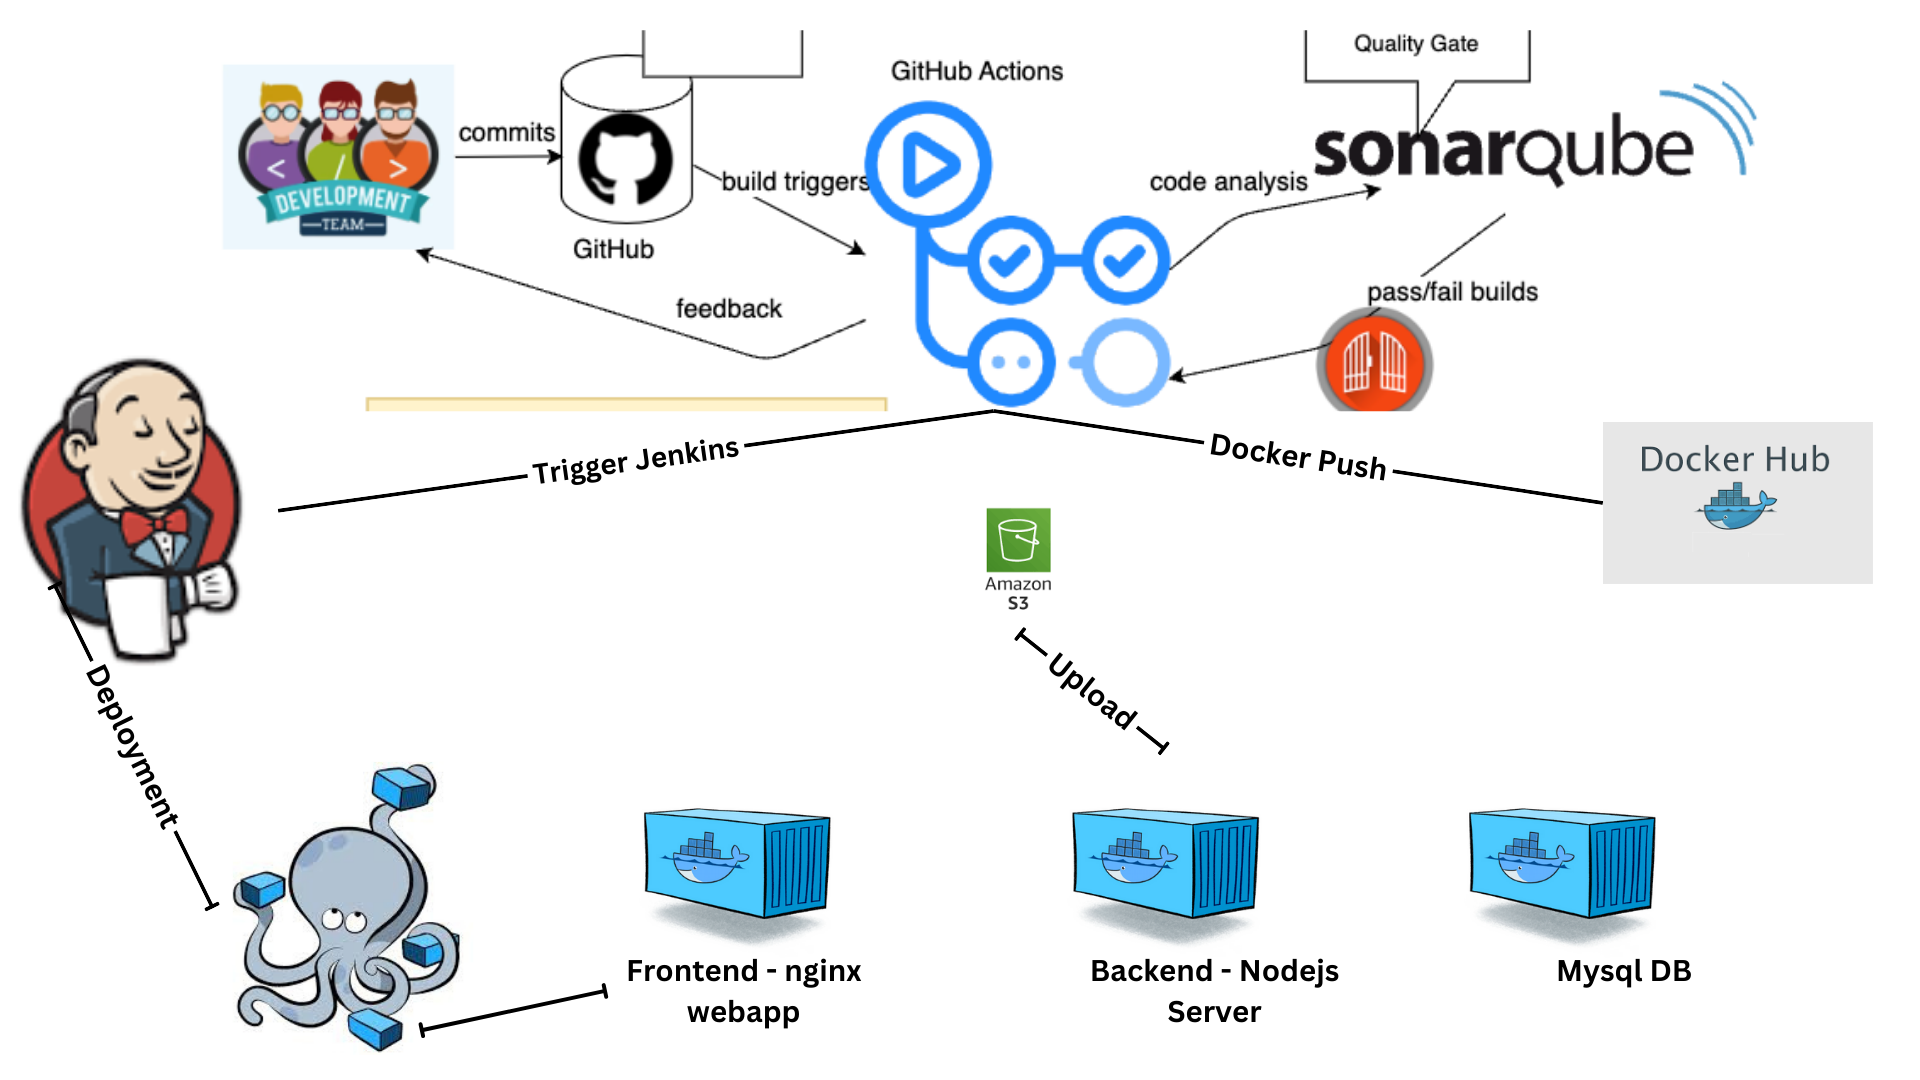
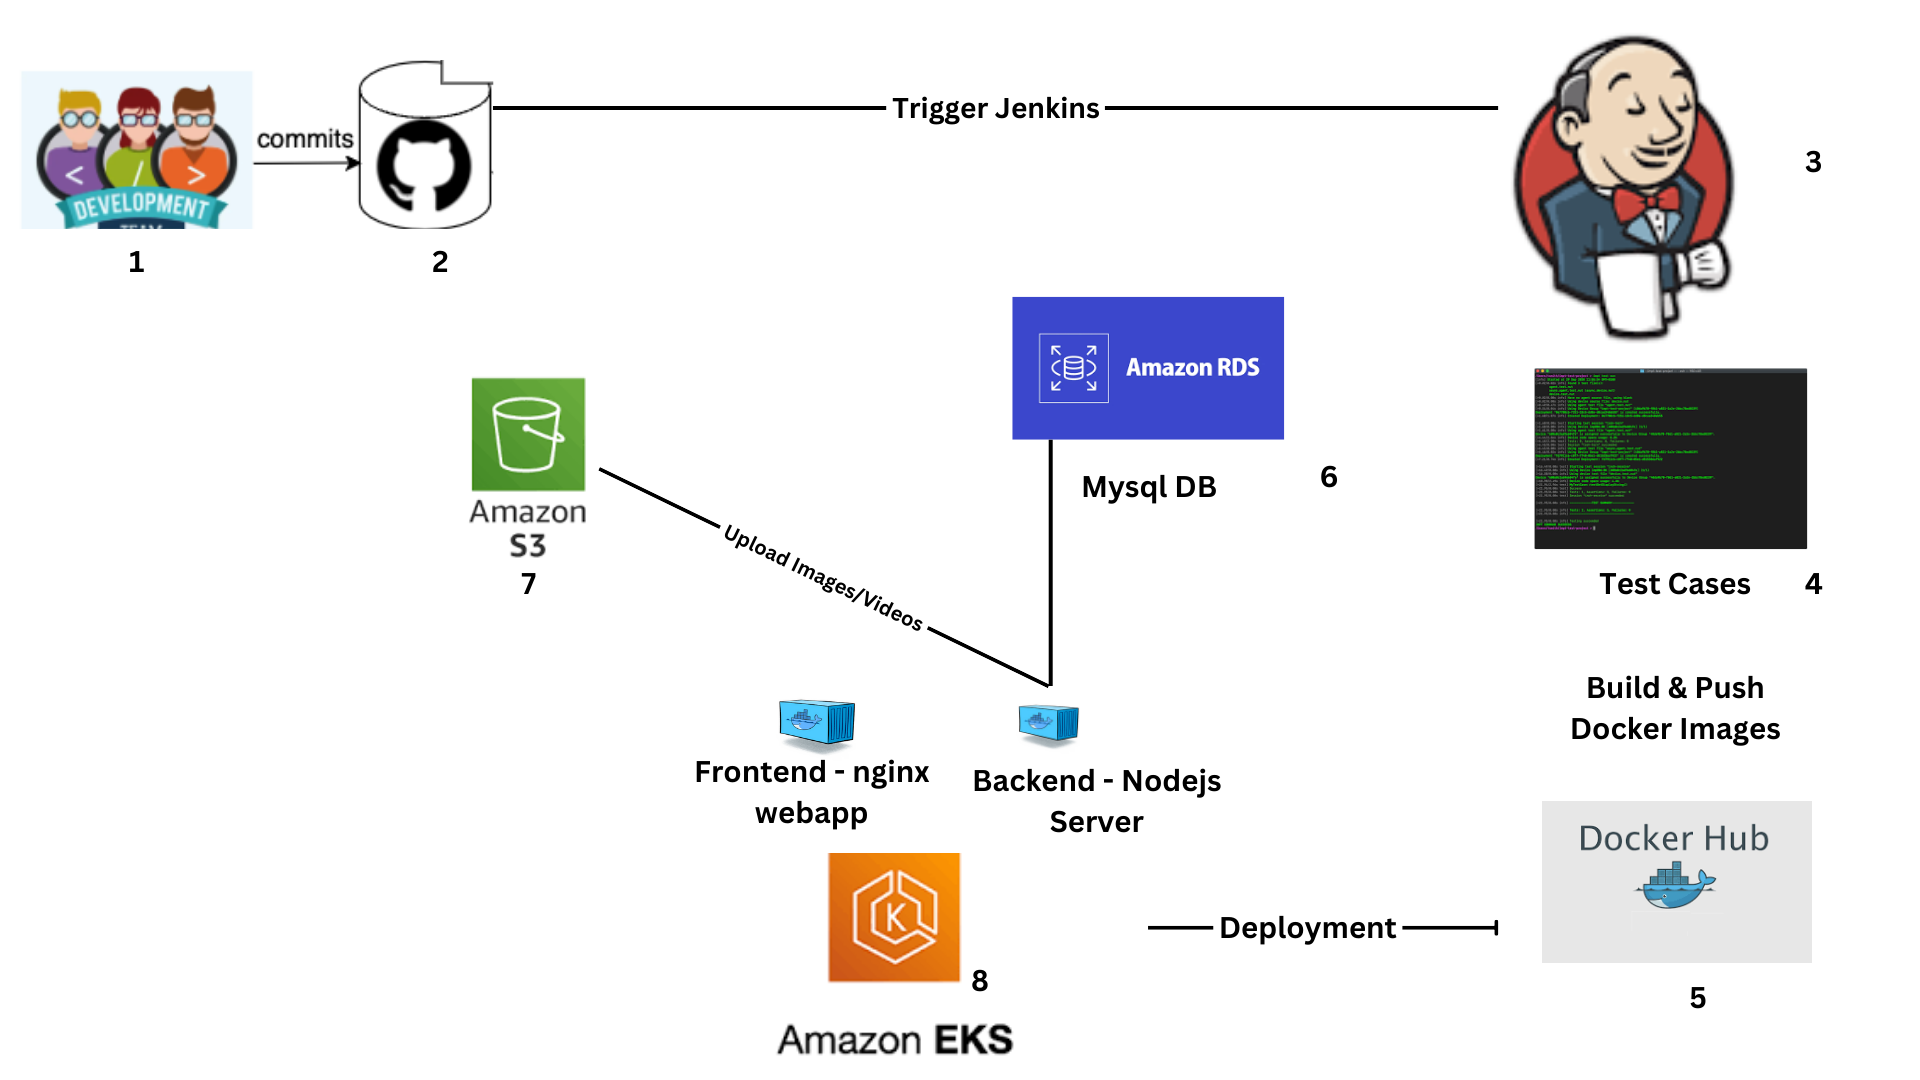
Final Commit

diff --git a/README.md b/README.md
@@ -24,21 +24,19 @@ The project follows a multi-container Docker architecture consisting of three ma
 
 1. **Frontend**: A static website served by Nginx, which hosts the HTML, CSS, and Frontend JavaScript files.
 2. **Backend**: A Node.js application that handles API requests, processes data, and interacts with the MySQL database.
-3. **Database**: A MySQL:8 database for storing movie details.
+3. **Database**: A RDS database for storing movie details.
 
 ## Features
 
-- **Multi-Container Deployment**: The application is containerized using Docker, with separate containers for the frontend, backend, and database.
+- **Multi-Container Deployment**: The application is containerized using Docker, with separate containers for the frontend, backend, We are using K8s as an container orchestration tool to manage the life cycle of containers.
 - **AWS S3 Integration**: Media files are stored securely in an AWS S3 bucket.
-- **Continuous Integration**: GitHub Actions are used to build and test the application, with SonarQube integrated for code quality analysis. (CI)
-- **Jenkins Deployment**: A Jenkins pipeline is used to deploy the application on an AWS EC2 instance. (CD)
+- **CI-CD Pipeline**: A Jenkins CI-CD pipeline is used to deploy the application on an AWS EKS
 
 ## How to Run the Application
 
 ### Prerequisites
 
 - **Docker**: Ensure Docker is installed on your system.
-- **Docker Compose**: Required to manage the multi-container setup.
 - **AWS CLI**: Configure your AWS credentials for S3 access.
 - **Jenkins**: Set up a Jenkins server for CI/CD.
 
@@ -60,7 +58,7 @@ The project follows a multi-container Docker architecture consisting of three ma
 
 - Launch Jenkins Server:
     ```bash
-    docker run -p 8080:8080 -p 50000:50000 -dit --name jenkins --restart=on-failure -v jenkins_home:/var/jenkins_home jenkins/jenkins:lts-jdk17
+    docker run -p 8080:8080 -p 50000:50000 -dit --name jenkins --restart=on-failure jenkins:lts-jdk17
     ```
 
 - Configure Jenkins Slave Node:
@@ -76,19 +74,6 @@ The project follows a multi-container Docker architecture consisting of three ma
         ```bash
         yum install git -y
         ```
-
-4. **SonarQube Configuration**
-    
-    - The SonarQube server will be hosted on an AWS EC2 instance(you can host it on same ec2 instance where jenkins server is running). Refer to the `docker-compose.yml` in the `/build` directory for setting up the SonarQube server.
-
-    ``` bash
-    sudo curl -L "https://github.com/docker/compose/releases/latest/download/docker-compose-$(uname -s)-$(uname -m)" -o /usr/local/bin/docker-compose
-    chmod +x /usr/local/bin/docker-compose
-    docker-compose --version
-    docker-compose up -d #please switch to `/build` folder, as the sonarqube docker-compose file is present there.
-    ```
-    
-    - Now SonarQube Server would be running on port no 9000, you can hit to <EC2 Public IP:9000>, by default the username and password of Sonarqube will be `admin`
 
 5. **AWS S3 Bucket**
 
@@ -115,122 +100,59 @@ The project follows a multi-container Docker architecture consisting of three ma
 
     CI/CD Pipeline: The CI/CD pipeline Checks code quality using SonarQube and then it builds Docker images with tags `jinny1/movie-streaming-backend-nodejs:latest` and `jinny1/movie-streaming-frontend:latest` and pushes them to DockerHub. Now it will deploy the application using these docker images
 
-    - GitHub Actions (for Continuous Integration)
-        The project includes a CI pipeline defined in `.github/workflows/sonarqube-scan.yml`, which performs the following steps:
+    - Jenkins (for Continuous Integration)
+        The project includes a CI-CD pipeline defined in `Jenkinsfile`, which performs the following steps:
 
-        - SonarQube Analysis: Checks code quality using SonarQube.
+        - Execute Test Cases
         - Docker Build & Push: Builds Docker images for the frontend and backend and pushes them to DockerHub.
-        - As workflow is using some Secrets, Hence create the secrets from `setting->Secrets and Variables-> Actions -> Repository secrets`
-
-            - **SONAR_TOKEN:** Token for SonarQube authentication.
-            - **SONAR_HOST_URL:** URL for the SonarQube server.
-            - **DOCKERHUB_USERNAME:** Docker Hub username.
-            - **DOCKERHUB_TOKEN:** Docker Hub token for authentication.
+        - As Pipeline is using some Secrets, Hence create the secrets from `Jenkins Credential Manager`
 
     - Jenkins (for Continuous Deployment)
 
-        - Define your pipeline in Jenkins, which will use the `./docker-compose.yml` file to start all the services(frontend, backend and database).
-
-        - **IMP** You need to change the IP of your EC2 Instance in the `./docker-compose.yml` file, Just replace the IP address defined in the environmental variable for `node-app` the keyword name is `DB_HOST`
-        and in `web` the keyword name os `API_URL`
-
-        - Manuall Deployment(optional)
-
-            - Create a .env file in your jenkins slave node from where you are going to execute the above `docker-compose.yml` file:
-
-                Create a .env file in the root directory to store your environment variables. This file should include your AWS S3 credentials, and other sensitive information.
-                
-                ```bash
-                touch .env
-                ```
-
-                Example .env file:
-                ```
-                AWS_ACCESS_KEY_ID=your-access-key
-                AWS_SECRET_ACCESS_KEY=your-secret-key
-                DB_HOST=your-server-ip-where-you-will-deploy-the-app
-                ```
-        - **Automation Deployment With Jenkins** 
-            - Create a Credential in Jenkins:
-                - Go to Jenkins and create a new credential.
-                - Select "Secret file" and upload your .env file from your system.
-                - Give an ID to this secret, which will be referenced in your Jenkinsfile.
-                
-            - Set Up the Jenkins Pipeline:
-
-                - Create a new pipeline job in Jenkins.
-                - Configure the Source Code Management (SCM) with your GitHub repository URL.
-                - Enable webhooks for seamless integration by going to GitHub and allowing a webhook with the path http://<Jenkins-IP>:8080/github-webhook/. This ensures Jenkins triggers automatically when changes are pushed to the repository.
-                
-            - Jenkinsfile Configuration `Jenkinsfile`:
-
-                - The pipeline configuration is defined in a Jenkinsfile. This script specifies the environment, stages, and steps for the deployment process.
-                - The environment variable ENV loads the credentials from the secret file you uploaded earlier.
-                - Deployment Steps:
-
-                    - Stage: Deploy the Multi-Container Application:
-                    - Copy the Environment File: The .env file is copied to the current directory using the command sh 'cp $ENV .env'.
-                    - Pull the Latest Docker Images: sh 'docker-compose pull' pulls the latest images for your services defined in the docker-compose.yml file.
-                    - Stop and Remove Existing Containers: The existing web and node-app containers are stopped and removed to ensure that old containers are deleted before starting new ones with updated images.
-                    - Start New Containers: Finally, sh 'docker-compose up -d' starts the containers from the new Docker images, ensuring the application is up-to-date.
+        - Jenkins will Deploy the application on EKS cluster. `/deploy` directory has all the k8s yaml scripts.
 
 7. **Latest Docker Image**
 - My Latest docker image for this project are present here, You can use this image as well, If you don't wanted to build your own image
     - https://hub.docker.com/r/jinny1/movie-streaming-frontend
     - https://hub.docker.com/r/jinny1/movie-streaming-backend-nodejs
 
-8. **Debugging Steps**
-    
-    - Stopping Containers:
-        Use `docker-compose down` to gracefully terminate all containers created by the docker-compose file. This command also removes the networks created by docker-compose up, making it useful when you need to clean up the environment before redeploying.
-
-    - Checking Logs:
-        To diagnose issues with a specific container, such as `node-app`, use `docker logs node-app`. This command displays the container's logs, which can be crucial for identifying problems like a failed connection to a database.
-
-    - Restarting Containers:
-        If node-app fails to connect to the database, one potential solution is to restart the container using `docker restart node-app`. This action can reinitialize the connection and resolve transient issues without requiring a full stack restart.
 
 9. **Contact**
     For any inquiries or issues, please contact [me](https://www.linkedin.com/in/sudhanshu--pandey/)
 
 
+### Configure AWS EKS Cluster
+
+### Step 1: Configure AWS Credentials
+  `aws configure` Make sure you have created your credentials in the AWS IAM service.
+
+### Step 2: Install eksctl
+  eksctl is a simple CLI tool for creating and managing EKS clusters. Install eksctl using the following commands:
+
+  ``` bash 
+  curl --silent --location "https://github.com/weaveworks/eksctl/releases/latest/download/eksctl_$(uname -s)_amd64.tar.gz" | tar xz -C /tmp
+  sudo mv /tmp/eksctl /usr/local/bin
+  eksctl version
+  ```
+### Step 3: Install kubectl
+  kubectl is a command-line tool used to interact with Kubernetes clusters. Install it to manage your EKS cluster:
+
+  ````bash
+  curl -o kubectl https://amazon-eks.s3.us-west-2.amazonaws.com/1.19.6/2021-01-05/bin/linux/amd64/kubectl
+  chmod +x ./kubectl
+  sudo mv ./kubectl /usr/local/bin
+  kubectl version --short --client
+  ````
+
+### Step 4: Create the EKS Cluster
+  The following command creates a new EKS cluster named EKS-1 in the ap-south-1 region. No worker nodes will be created at this stage.
+
+    eksctl create cluster --name EKS21 --region ap-south-1 --vpc-public-subnets=subnet-0e64ffc947ac8929c,subnet-04c1ed6ba9c55ffd7 --nodegroup-name default-ng --node-type t3.medium --nodes=2 --nodes-min=2 --nodes-max=2 --node-volume-size=20 --ssh-access --ssh-public-key DevOps --managed
 
 ### Code Explanation
 
-1. **GitHub Actions Workflow: Test and build docker images**
 
-    - This repository contains a GitHub Actions workflow that automates code analysis and Docker image management.
-
-    - Workflow Trigger: The workflow runs on every push to the `main` branch.
-
-    - Jobs
-
-        - Build and Analyze
-
-            - **Runs on:** `ubuntu-latest`
-            - **Steps:**
-            - **Checkout Code:** Retrieves the repository code for analysis.
-            - **SonarQube Scan:** Analyzes code quality and security using SonarQube. Requires `SONAR_TOKEN` and `SONAR_HOST_URL` secrets.
-            - **SonarQube Quality Gate:** Optionally checks if the code meets the defined quality gate.
-
-        - Docker Build and Push
-
-            - **Runs on:** `ubuntu-latest`
-            - **Steps:**
-            - **Set up QEMU and Docker Buildx:** Prepares the environment for multi-platform Docker builds.
-            - **Login to Docker Hub:** Authenticates using Docker Hub credentials stored in secrets.
-            - **Build and Push Docker Images:** Builds Docker images from specified Dockerfiles and pushes them to Docker Hub.
-
-        - Secrets Required
-
-        - **SONAR_TOKEN:** Token for SonarQube authentication.
-        - **SONAR_HOST_URL:** URL for the SonarQube server.
-        - **DOCKERHUB_USERNAME:** Docker Hub username.
-        - **DOCKERHUB_TOKEN:** Docker Hub token for authentication.
-
-        This workflow helps maintain code quality and automates the deployment process by building and pushing Docker images.
-
-2. **Explanation of app.js file**
+1. **Explanation of app.js file**
 
     - A Node.js backend server for managing a movie database with functionalities like file uploads to AWS S3, MySQL database interactions, and RESTful API endpoints.
 
@@ -260,36 +182,3 @@ The project follows a multi-container Docker architecture consisting of three ma
 
         DB_HOST, DB_USER, DB_PASSWORD, DB_NAME for MySQL connection.
         AWS_REGION, AWS_ACCESS_KEY_ID, AWS_SECRET_ACCESS_KEY for AWS S3.
-
-3. **Docker Compose Setup for Movie App**
-
-    This `docker-compose.yml` file defines a multi-container application for a movie app, including a Node.js backend, a frontend web server, and a MySQL database.
-
-    - Services
-
-        - **node-app**: 
-        - Runs the backend using the `jinny1/movie-app-backend-nodejs` image.
-        - Connects to a MySQL database and uses AWS credentials provided via environment variables.
-        - Exposes port `3000`.
-
-    - web: 
-        - Runs the frontend using the `jinny1/movie-app-frontend` image.
-        - Exposes port `80`.
-
-    - mysql-db: 
-        - Runs a MySQL database using the `mysql:8.0` image.
-        - Creates a database `movie_db` with user `admin`.
-        - Exposes port `3306`.
-        - Includes a health check to ensure the database is ready before the backend starts.
-
-    - Usage
-
-        1. Ensure Docker and Docker Compose are installed.
-        2. Run `docker-compose up -d` to start all services.
-        3. Access the backend via `<EC2 Instance Public IP>:3000` and the frontend via `<EC2 Instance Public IP>:80`.
-
-
-
-
-
-
